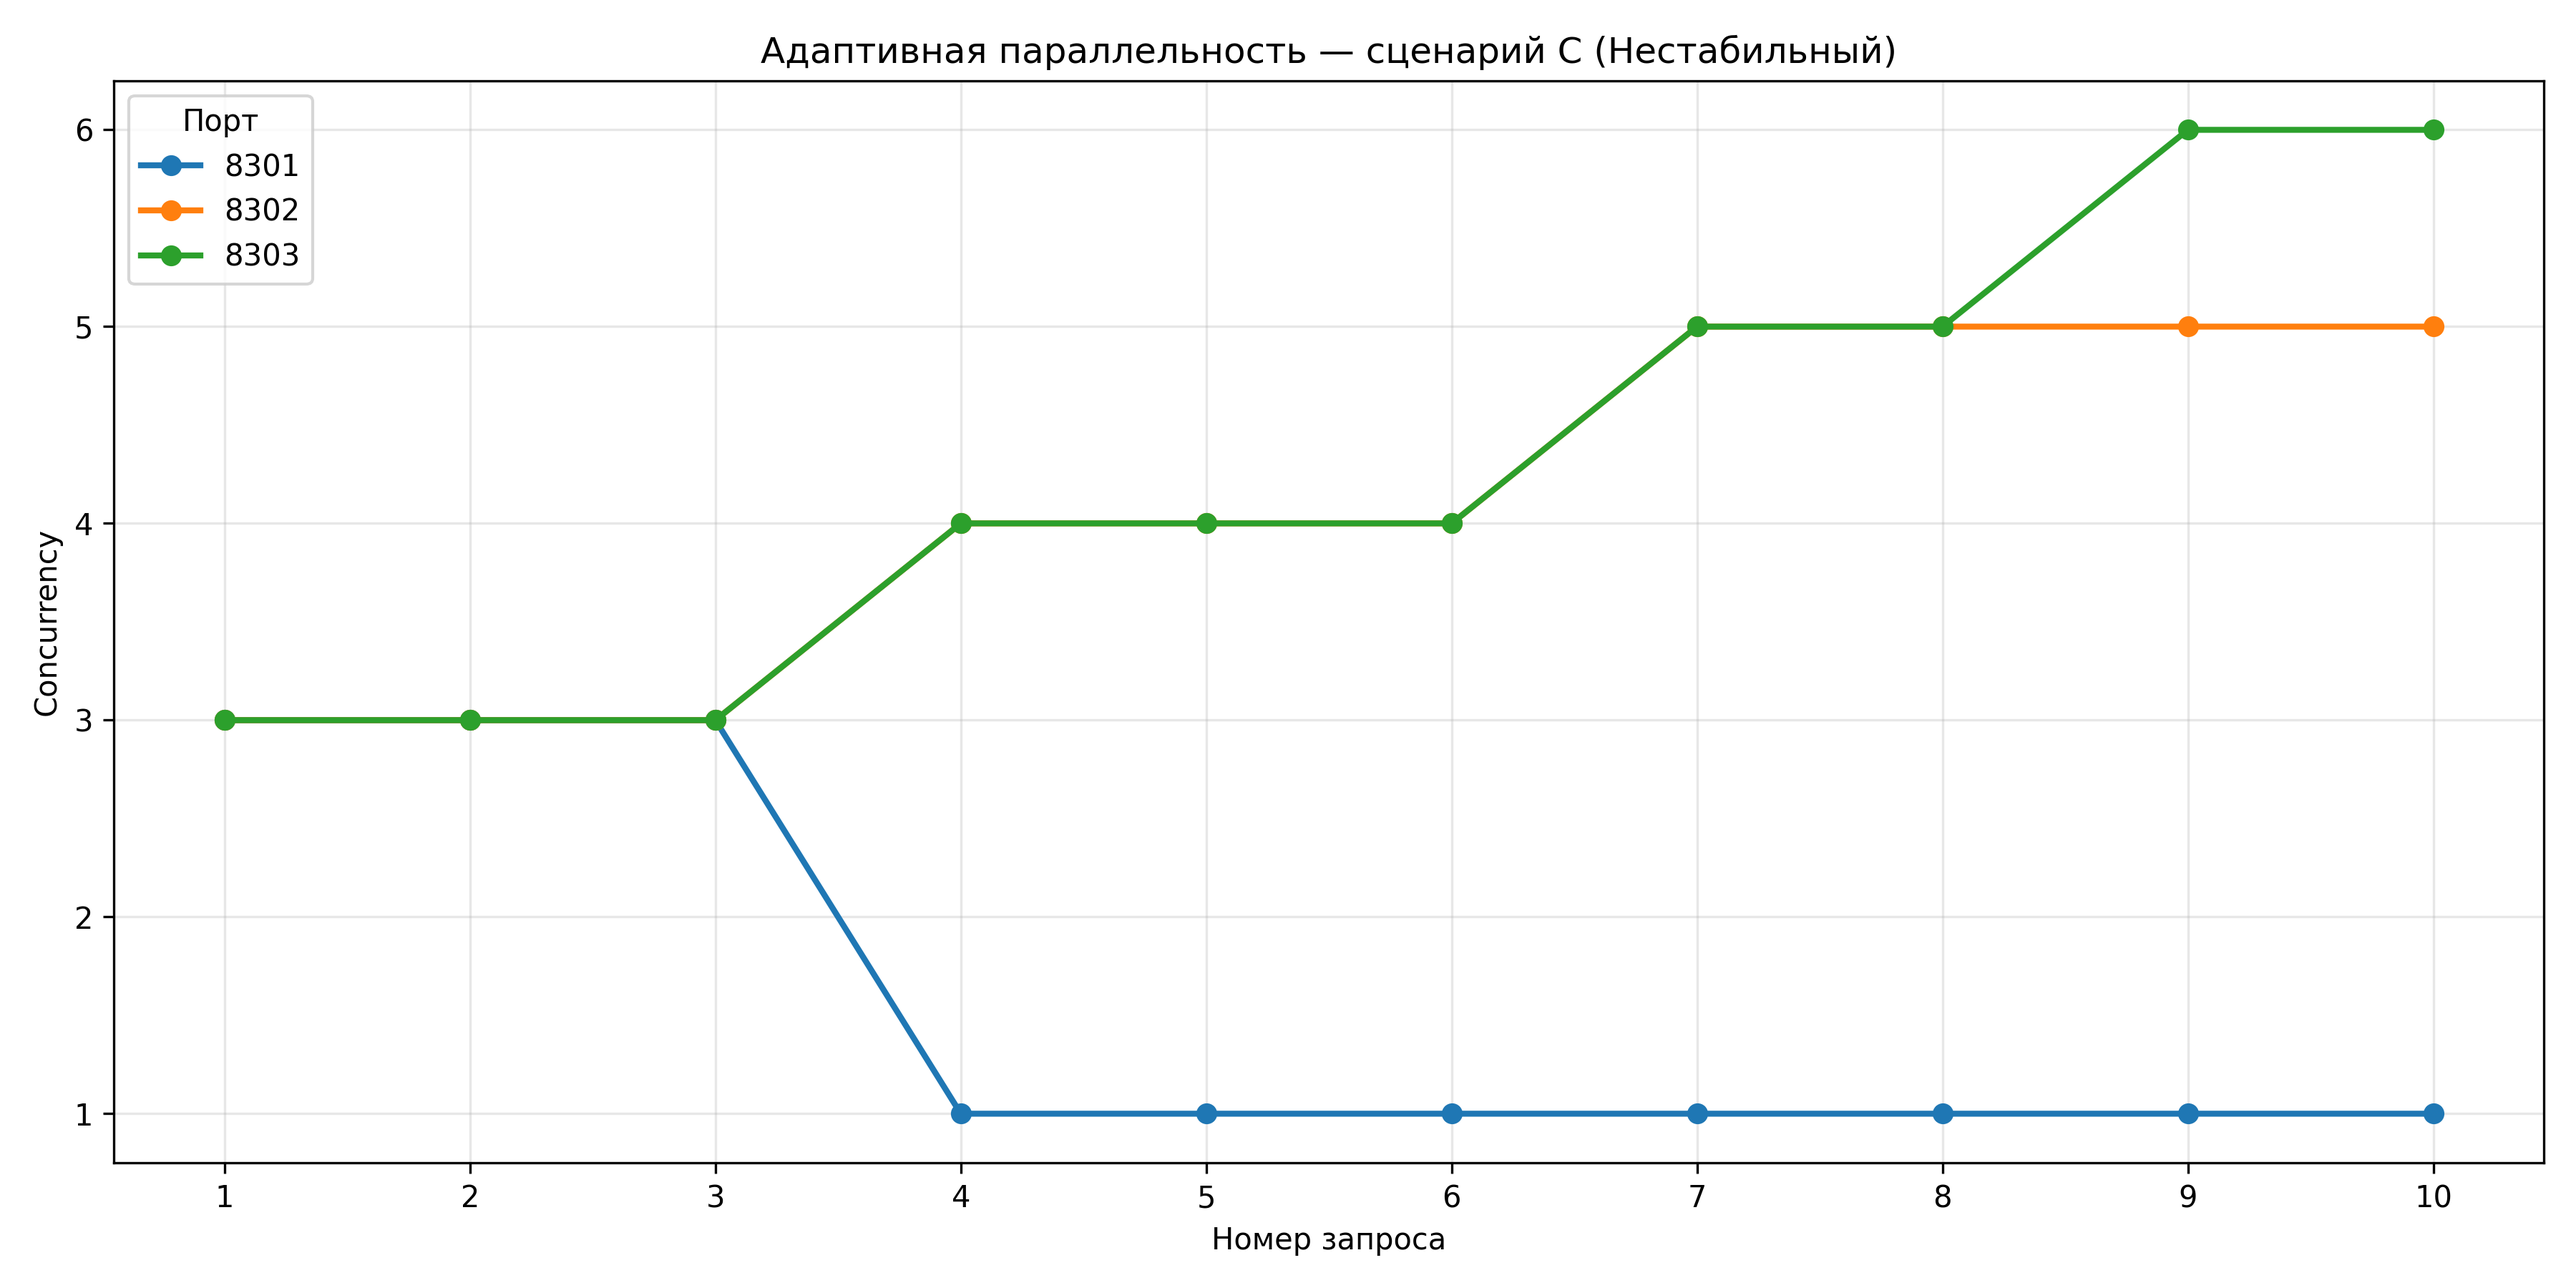
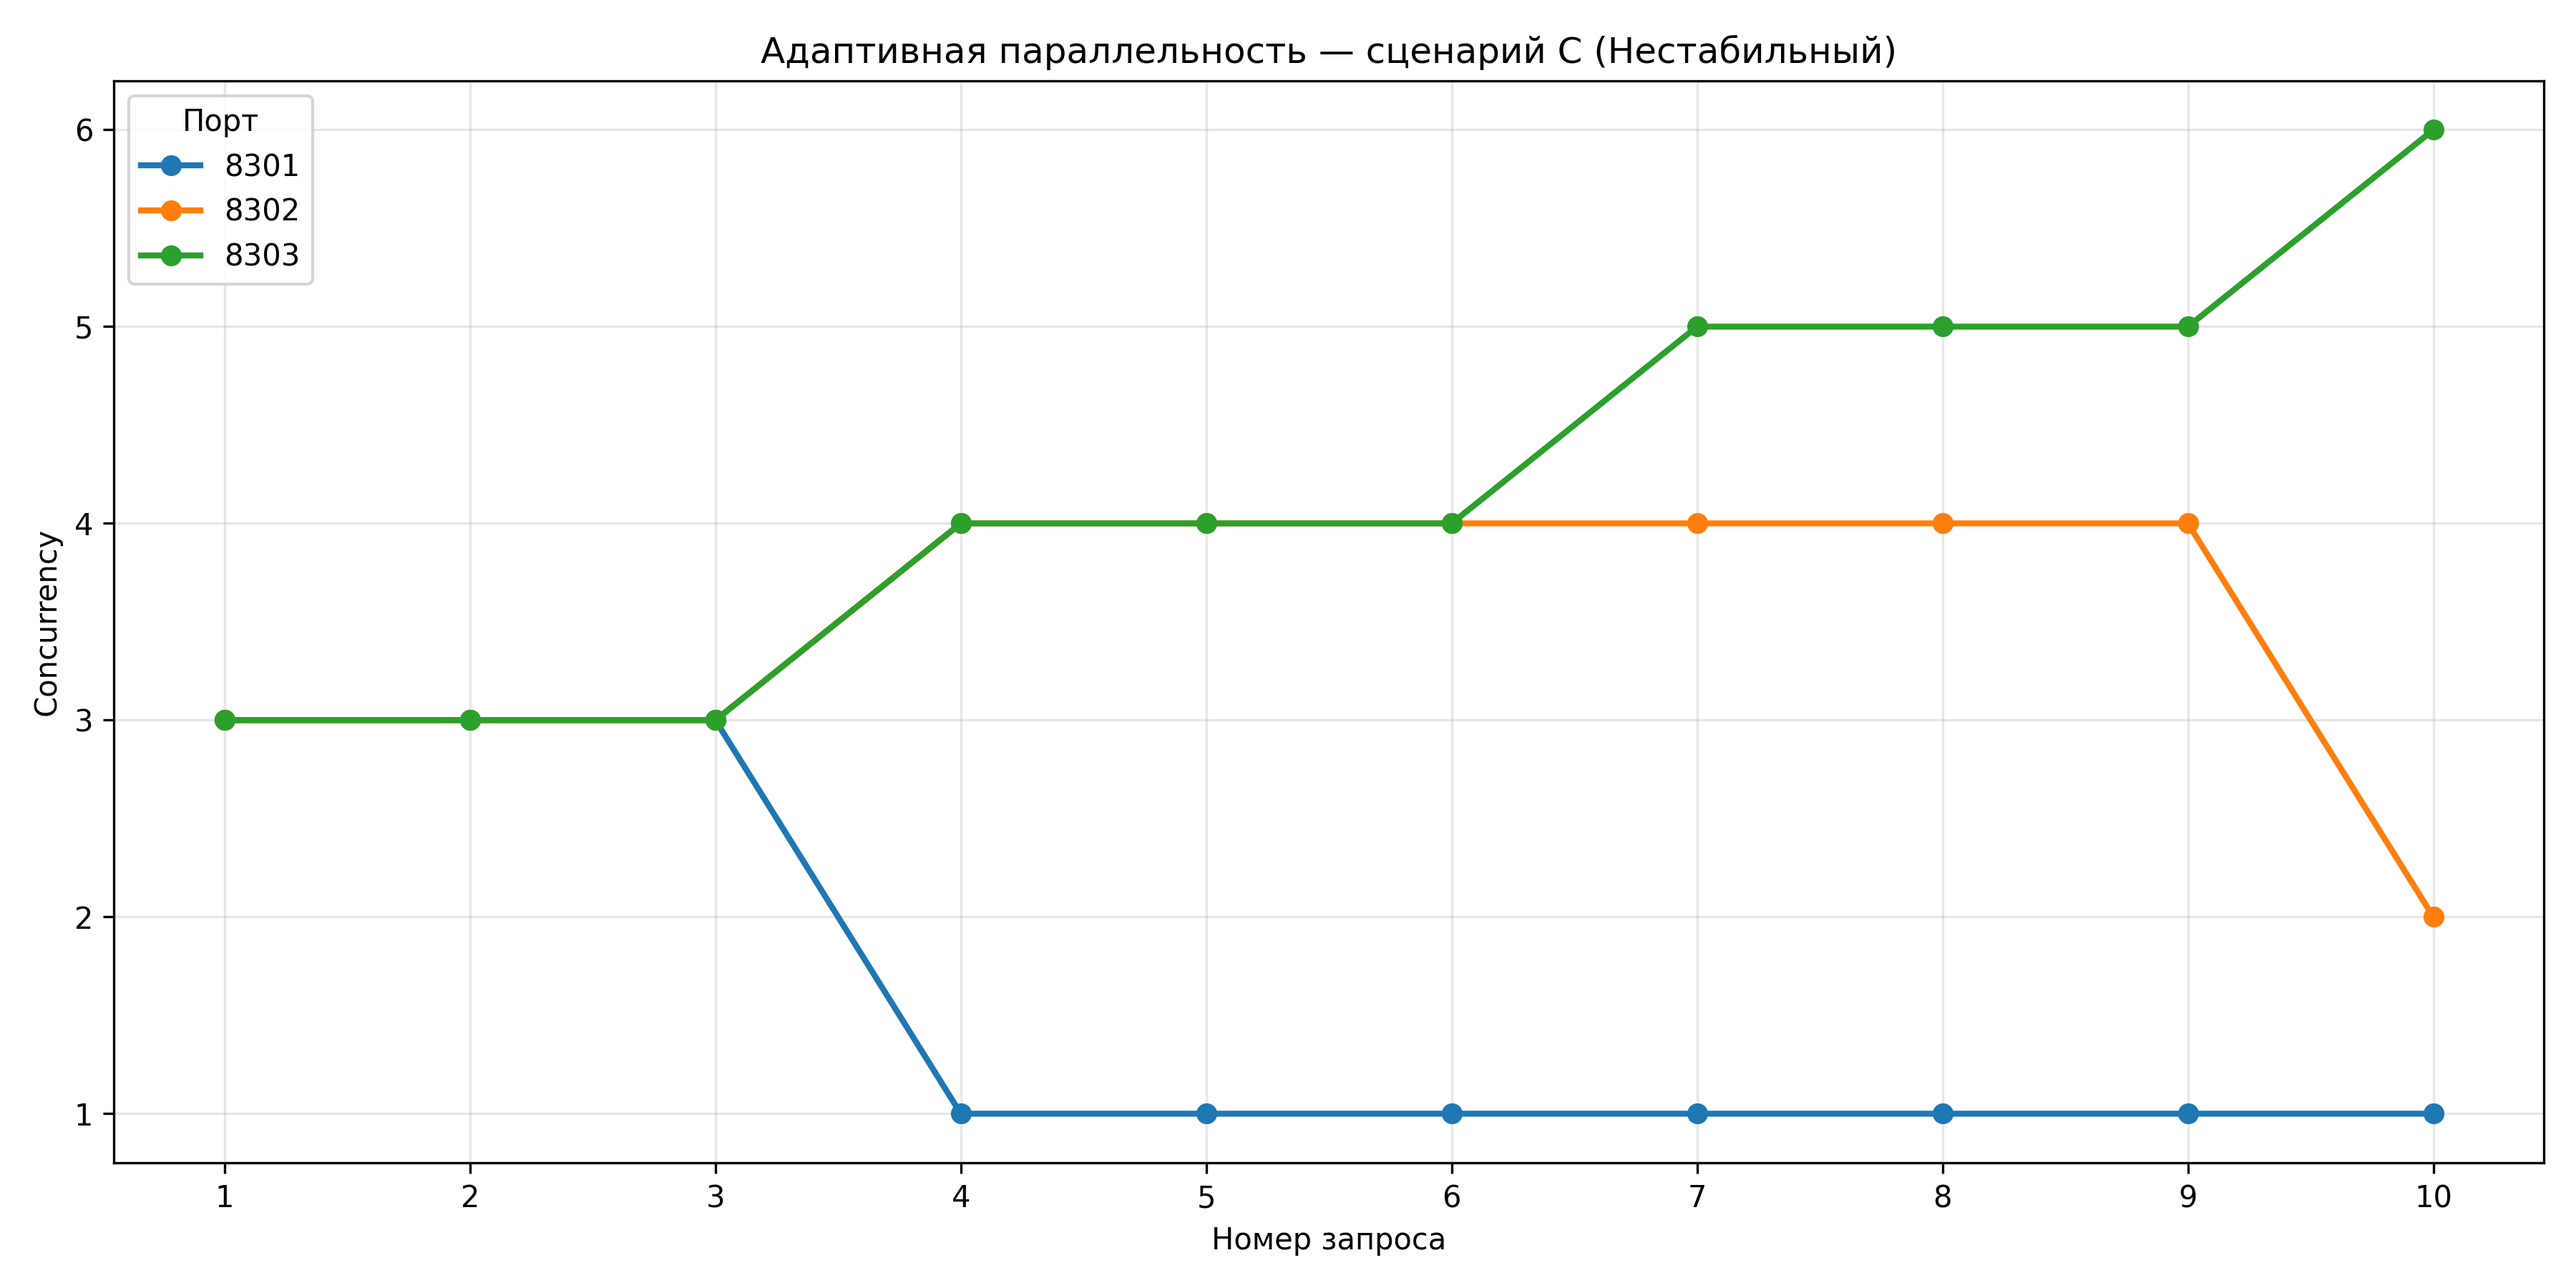
commands

diff --git a/test_adaptive.py b/test_adaptive.py
@@ -23,7 +23,7 @@ def test_adjust_on_high_error_rate(controller):
     stats.record(success=True, latency_ms=100)
     
     new_conc = controller.adjust("http://api.test", stats)
-    assert new_conc == 2  
+    assert new_conc == 1  
 
 
 def test_adjust_on_high_latency(controller):
@@ -62,4 +62,4 @@ def test_concurrency_bounds(controller):
     for _ in range(20):
         controller.adjust("http://api.test2", stats_good)
     
-    assert controller.get_concurrency("http://api.test2") == 5  
+    assert controller.get_concurrency("http://api.test2") == 4  
